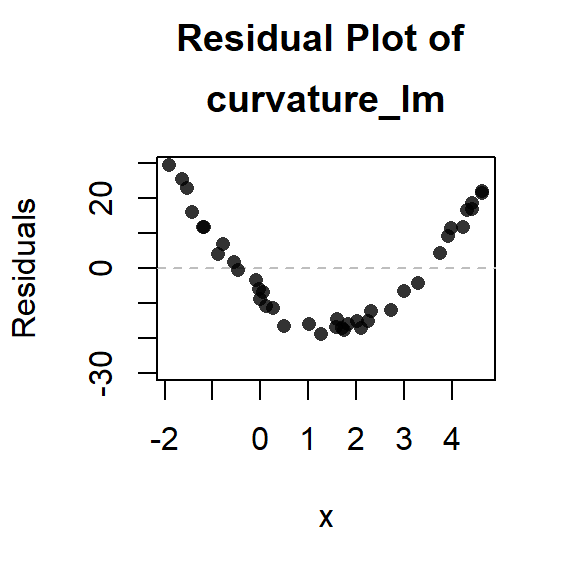
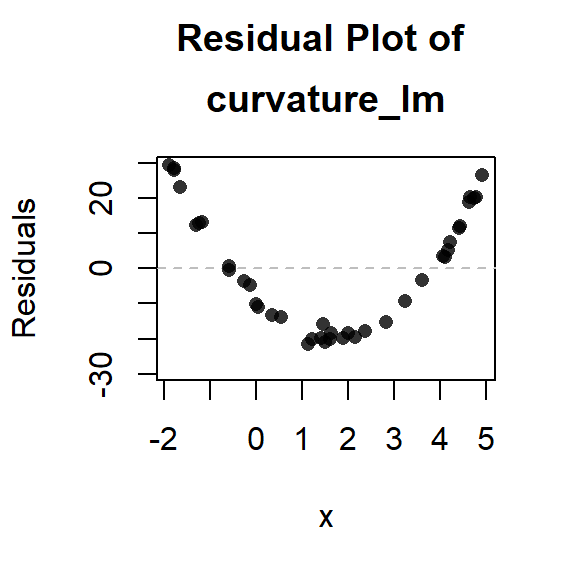
Revised L22, L23 by eliminating xlsx

diff --git a/docs/Lesson23.html b/docs/Lesson23.html
@@ -464,12 +464,14 @@ Y = \beta_0 + \beta_1 X + \epsilon
 <h3>Scatterplot</h3>
 <p>To check requirement 1, we do two things. The first is to make a scatterplot and to visually check to see if there is a linear relationship between <span class="math inline">\(X\)</span> and <span class="math inline">\(Y\)</span>.</p>
 <p>We want to make sure that there is no distinct curvature or other nonlinear characteristics. This is simply a visual check of the data.</p>
-<p>Consider the scatterplot of the estuarine crocodile data <a href="./data/estuarine_crocodiles.xlsx">estuarine_crocodiles.xlsx</a>:</p>
+<p>Load the <code>estuarine_crocodiles</code> data frame by running the command</p>
+<pre class="r"><code>  load(url(&quot;https://byuistats.github.io/M221R/data/L23.RData&quot;))</code></pre>
+<p>in R. Consider the following scatterplot of these data, which includes a superimposed regression line.</p>
 <pre class="r"><code>estuarine_lm &lt;- lm(body_length ~ head_length, data = estuarine_crocodiles)
 plot(body_length ~ head_length, data = estuarine_crocodiles)
 abline(estuarine_lm)</code></pre>
 <p><img src="Lesson23_files/figure-html/unnamed-chunk-2-1.png" width="672" /></p>
-<p>Notice how the data have a linear pattern. This data set shows a particularly strong linear relationship. In many cases, the data will show more spread than is illustrated here.</p>
+<p>Notice how the data have a linear pattern. This data set shows a very strong linear relationship. In many cases, the data will show more spread than is illustrated here.</p>
 </div>
 <div id="residuals" class="section level3">
 <h3>Residuals</h3>
@@ -487,7 +489,7 @@ R Instructions
 <div class="Software">
 <p><strong>To find the residuals in R, do the following:</strong></p>
 <ul>
-<li>Read the data into R: <a href="./data/estuarine_crocodiles.xlsx">estuarine_crocodiles.xlsx</a></li>
+<li>Load the data frame <code>estuarine_crocodiles</code> into R by running the command <code>load(url("https://byuistats.github.io/M221R/data/L23.RData"))</code></li>
 <li>Perform a linear regression using the <code>lm( )</code> function.</li>
 </ul>
 <pre class="r"><code>estuarine_lm &lt;- lm(body_length ~ head_length, data = estuarine_crocodiles)</code></pre>
@@ -523,7 +525,7 @@ Excel Instructions
 </div>
 <div class="Software">
 <ul>
-<li>Read the data into R: <a href="./data/estuarine_crocodiles.xlsx">estuarine_crocodiles.xlsx</a></li>
+<li>Load the data into R: <code>estuarine_crocodiles</code> You can access this data frame by running the command <code>load(url("https://byuistats.github.io/M221R/data/L23.RData"))</code> in R.</li>
 <li>Perform a linear regression using the <code>lm( )</code> function.</li>
 </ul>
 <pre class="r"><code>estuarine_lm &lt;- lm(body_length ~ head_length, data = estuarine_crocodiles)</code></pre>
@@ -556,6 +558,7 @@ residual_plot(estuarine_lm)</code></pre>
 <li><strong>Outliers</strong> If there are outliers in the residual plot, that suggests that the error terms are not normally distributed. This should also be apparent in the scatterplot or histogram of the residuals.</li>
 </ul>
 <div style="padding-left:30px;">
+<pre><code>## Warning: package &#39;carData&#39; was built under R version 4.1.3</code></pre>
 <p><img src="Lesson23_files/figure-html/unnamed-chunk-9-1.png" width="288" /></p>
 </div>
 <p><br/></p>
@@ -770,7 +773,7 @@ Excel Instructions
 </div>
 <div class="Software">
 <ul>
-<li>Read the data into R: <a href="./data/estuarine_crocodiles.xlsx">estuarine_crocodiles.xlsx</a></li>
+<li>Load the <code>estuarine_crocodiles</code> data into R using the command <code>load(url("https://byuistats.github.io/M221R/data/L23.RData"))</code></li>
 <li>Perform a linear regression using the <code>lm( )</code> function.</li>
 <li>See the results using <code>summary( )</code>.</li>
 </ul>
@@ -818,7 +821,7 @@ df = 28-2 = 26
 <div id="manatees" class="section level3">
 <h3>Manatees</h3>
 <p><img src = "Images/Step4.png"></p>
-<p>Here is an excerpt from the output for the <a href="./data/manatees.xlsx">manatees.xlsx</a> data set:</p>
+<p>Here is an excerpt of the <code>manatees</code> data set:</p>
 <table style="width:56%;">
 <colgroup>
 <col width="27%" />
@@ -870,20 +873,20 @@ n = 35 \\
 \end{array}
 \]</span></p>
 <p>The test statistic follows a <span class="math inline">\(t\)</span>-distribution.</p>
-<pre class="r"><code>manatee_lm &lt;- lm(manatees$manatees_killed ~ manatees$power_boats_1000s)
+<pre class="r"><code>manatee_lm &lt;- lm(manatees_killed ~ power_boats_1000s, data = manatees)
 summary(manatee_lm)</code></pre>
 <pre><code>
 Call:
-lm(formula = manatees$manatees_killed ~ manatees$power_boats_1000s)
+lm(formula = manatees_killed ~ power_boats_1000s, data = manatees)
 
 Residuals:
     Min      1Q  Median      3Q     Max 
 -15.758  -6.647  -1.239   4.349  22.344 
 
 Coefficients:
-                             Estimate Std. Error t value Pr(&gt;|t|)    
-(Intercept)                -42.541613   6.349634   -6.70 1.25e-07 ***
-manatees$power_boats_1000s   0.129162   0.008338   15.49  &lt; 2e-16 ***
+                    Estimate Std. Error t value Pr(&gt;|t|)    
+(Intercept)       -42.541613   6.349634   -6.70 1.25e-07 ***
+power_boats_1000s   0.129162   0.008338   15.49  &lt; 2e-16 ***
 ---
 Signif. codes:  0 &#39;***&#39; 0.001 &#39;**&#39; 0.01 &#39;*&#39; 0.05 &#39;.&#39; 0.1 &#39; &#39; 1
 
@@ -917,17 +920,17 @@ R Instructions
 <div class="Software">
 <p><strong>To compute the confidence intervals for the regression coefficients in R, do the following:</strong></p>
 <ul>
-<li>Read the data into R: <a href="./data/estuarine_crocodiles.xlsx">estuarine_crocodiles.xlsx</a></li>
+<li>Read the data into R: <code>estuarine_crocodiles</code>. You can access this data frame by running the command <code>load(url("https://byuistats.github.io/M221R/data/L23.RData"))</code> in R.</li>
 <li>Perform a linear regression using the <code>lm( )</code> function.</li>
 </ul>
-<pre class="r"><code>manatee_lm &lt;- lm(manatees$manatees_killed ~ manatees$power_boats_1000s)</code></pre>
+<pre class="r"><code>manatee_lm &lt;- lm(manatees_killed ~ power_boats_1000s, data = manatees)</code></pre>
 <ul>
 <li>Use the <code>confint( )</code> function with the name of your lm object placed inside to obtain the confidence intervals. Use <code>confint(  , conf.level = 0.95)</code> to control the confidence level.</li>
 </ul>
 <pre class="r"><code>confint(manatee_lm, level = 0.95)</code></pre>
-<pre><code>                                 2.5 %      97.5 %
-(Intercept)                -55.4600405 -29.6231851
-manatees$power_boats_1000s   0.1121986   0.1461254</code></pre>
+<pre><code>                        2.5 %      97.5 %
+(Intercept)       -55.4600405 -29.6231851
+power_boats_1000s   0.1121986   0.1461254</code></pre>
 <p>The first row of the output gives the confidence interval for <span class="math inline">\(\beta_0\)</span>, the y-intercept. The second row of the output gives the confidence interval for <span class="math inline">\(\beta_1\)</span>, the slope.</p>
 <p><br></p>
 </div>

diff --git a/docs/Lesson22.html b/docs/Lesson22.html
@@ -449,7 +449,9 @@ $(document).ready(function () {
 </iframe>
 <p><br/></p>
 <p><img src = "Images/Step2.png"></p>
-<p>We will use Sereno and Barr’s measurements on the lengths of Estuarine, or saltwater, Crocodiles’ heads to estimate the length of their bodies. Their measurements are given in the file <a href="./data/estuarine_crocodiles.xlsx">estuarine_crocodiles.xlsx</a>.</p>
+<p>We will use Sereno and Barr’s measurements on the lengths of Estuarine, or saltwater, Crocodiles’ heads to estimate the length of their bodies. Their measurements are given in the file <code>estuarine_crocodiles</code>. You can access this data frame by running the command</p>
+<pre class="r"><code>  load(url(&quot;https://byuistats.github.io/M221R/data/L22.RData&quot;))</code></pre>
+<p>in R.</p>
 <p><br/></p>
 <p><img src = "Images/Step3.png"></p>
 <p>Using the information we learned in <a href="Lesson21.html#r-instructions-for-scatterplots">Lesson 21</a>, we create a scatterplot for the Estuarine Crocodile data.</p>
@@ -559,7 +561,7 @@ R Instructions
 <div class="Software">
 <p><strong>To find the estimated regression coefficients (<span class="math inline">\(b_0\)</span> and <span class="math inline">\(b_1\)</span>) in R, do the following:</strong></p>
 <ul>
-<li>Import the data into RStudio: <a href="./data/estuarine_crocodiles.xlsx">estuarine_crocodiles.xlsx</a></li>
+<li>Load the <code>estuarine_crocodiles</code> data frame into R. You can access this data frame by running the command <code>load(url("https://byuistats.github.io/M221R/data/L22.RData"))</code></li>
 <li>Use the <code>lm( )</code> function to create a “linear model” for the data.</li>
 <li>Put your response variable (Y) first, followed by a <code>~</code>, followed by the explanatory variable (X).</li>
 <li>Be sure to indicate the data frame that contains your response and explanatory variables.</li>
@@ -614,7 +616,7 @@ R Instructions
 <div class="Software">
 <p><strong>To add a regression line to a scatterplot in RStudio, do the following:</strong></p>
 <ul>
-<li>Import the data into RStudio: <a href="./data/estuarine_crocodiles.xlsx">estuarine_crocodiles.xlsx</a></li>
+<li>Load the <code>estuarine_crocodiles</code> data frame. You can access this data frame by running the command <code>load(url("https://byuistats.github.io/M221R/data/L22.RData"))</code> in R.</li>
 <li>Perform the regression:</li>
 </ul>
 <pre class="r"><code>estuarine_lm &lt;- lm(body_length ~ head_length, data = estuarine_crocodiles)</code></pre>
@@ -690,7 +692,7 @@ Answer the following question:
 <p>Is there a relationship between the number of powerboats registered in Florida and the number of manatees killed there by powerboats each year? If the powerboats are killing the manatees, then we would expect to see a relationship between the number of powerboats and the number of manatees killed by powerboats. As the number of powerboats increases, we would expect to observe a corresponding increase in manatee deaths due to powerboats.</p>
 <p>We can use simple linear regression to model the relationship between the powerboat registrations and the manatee deaths. In the next lesson, we will be able to conduct a hypothesis test to determine if this relationship is statistically significant.</p>
 <p><img src = "Images/Step2.png"></p>
-<p>The data set <a href="./data/manatees.xlsx">manatees</a> gives the number of Florida powerboat registrations (in thousands) and the number of manatees killed by powerboats for the years 1977-2011. <!--<cite>Manatees06,Manatees-ManateeData,Manatees-PowerboatData</cite>--> These data are derived from multiple sources.</p>
+<p>You can access the <code>manatees</code> data frame by running the command <code>load(url("https://byuistats.github.io/M221R/data/L22.RData"))</code> in R. This data frame gives the number of Florida powerboat registrations (in thousands) and the number of manatees killed by powerboats for the years 1977-2011. <!--<cite>Manatees06,Manatees-ManateeData,Manatees-PowerboatData</cite>--> These data are derived from multiple sources.</p>
 <p><img src = "Images/Step3.png"></p>
 <div id="regression-equation" class="section level3">
 <h3>Regression Equation</h3>
@@ -702,7 +704,7 @@ Answer the following question:
 </div>
 <div id="interpreting-the-regression-output-1" class="section level3">
 <h3>Interpreting the Regression Output</h3>
-<p>Read in the <a href="./data/manatees.xlsx">manatees</a> data, then find the regression equation as follows:</p>
+<p>Read in the <code>manatees</code> data frame. You can access this data frame by running the command <code>load(url("https://byuistats.github.io/M221R/data/L22.RData"))</code> in R. Then, find the regression equation as follows:</p>
 <pre class="r"><code>manatee_lm &lt;- lm(manatees_killed ~ power_boats_1000s, data = manatees)
 summary(manatee_lm)</code></pre>
 <pre><code>
@@ -753,7 +755,7 @@ F-statistic:   240 on 1 and 33 DF,  p-value: &lt; 2.2e-16</code></pre>
      pch = 16)
 
 abline(manatee_lm)</code></pre>
-<p><img src="Lesson22_files/figure-html/unnamed-chunk-13-1.png" width="672" /></p>
+<p><img src="Lesson22_files/figure-html/unnamed-chunk-12-1.png" width="672" /></p>
 <p>You will observe that the points are not as tightly clustered around the regression line for the manatee data, compared to the crocodile data, but that there is still a fairly strong correlation in the data. The correlation coefficient is <span class="math inline">\(0.9376\)</span>:</p>
 <pre class="r"><code>cor(manatees$power_boats_1000s, manatees$manatees_killed)</code></pre>
 <pre><code>[1] 0.9376087</code></pre>
